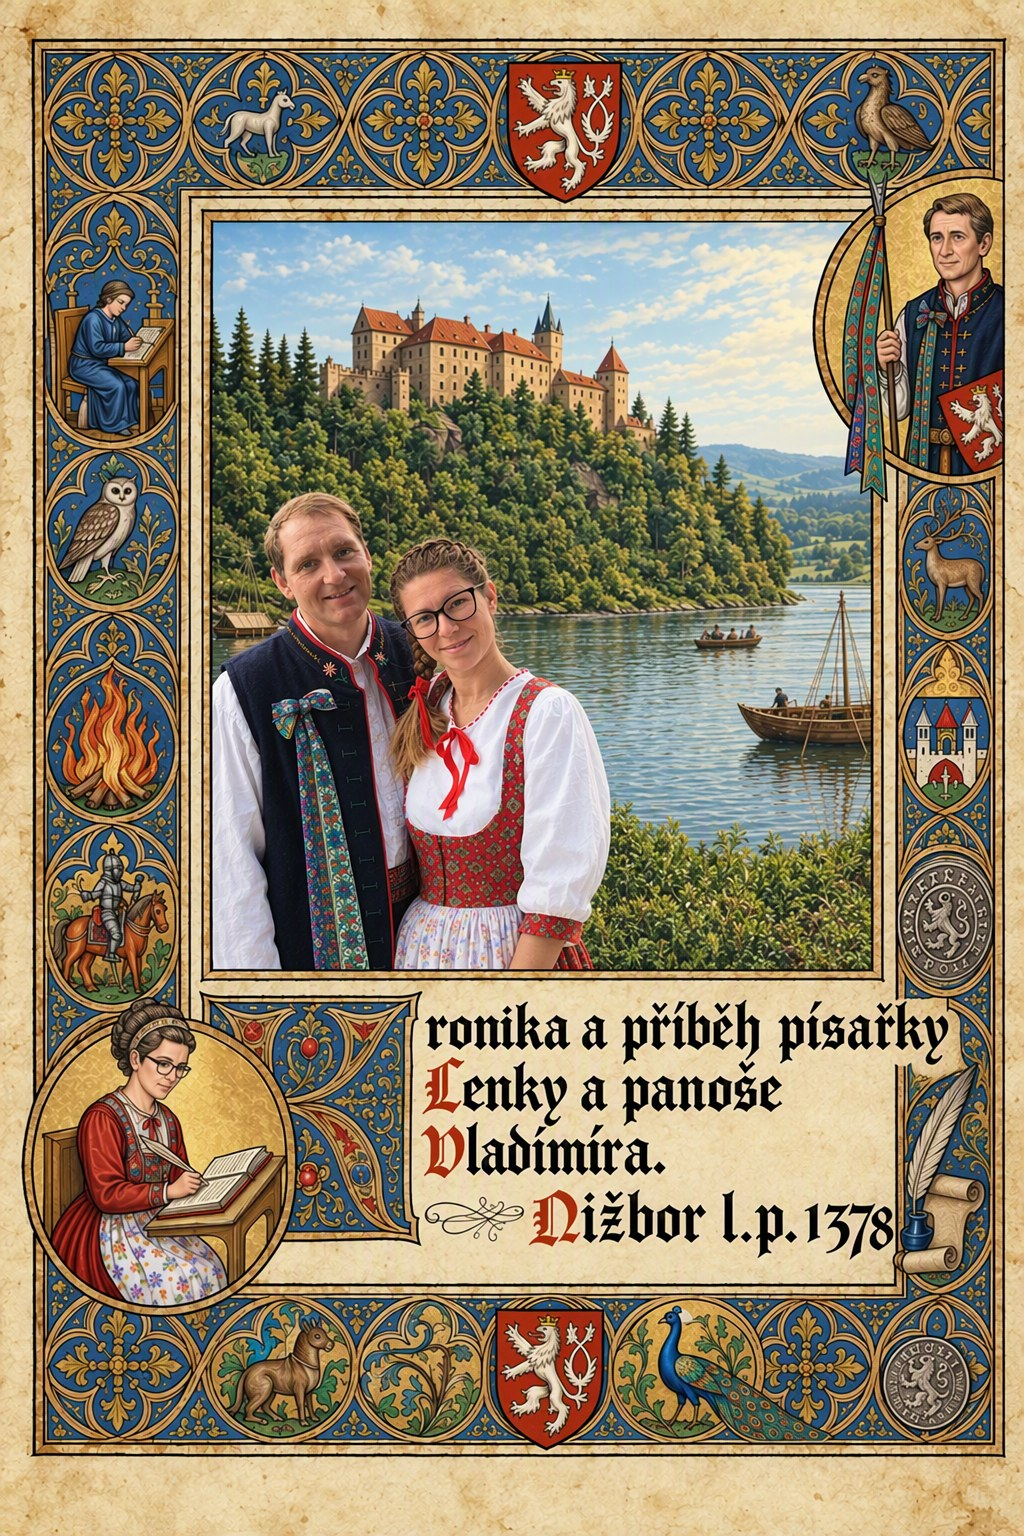
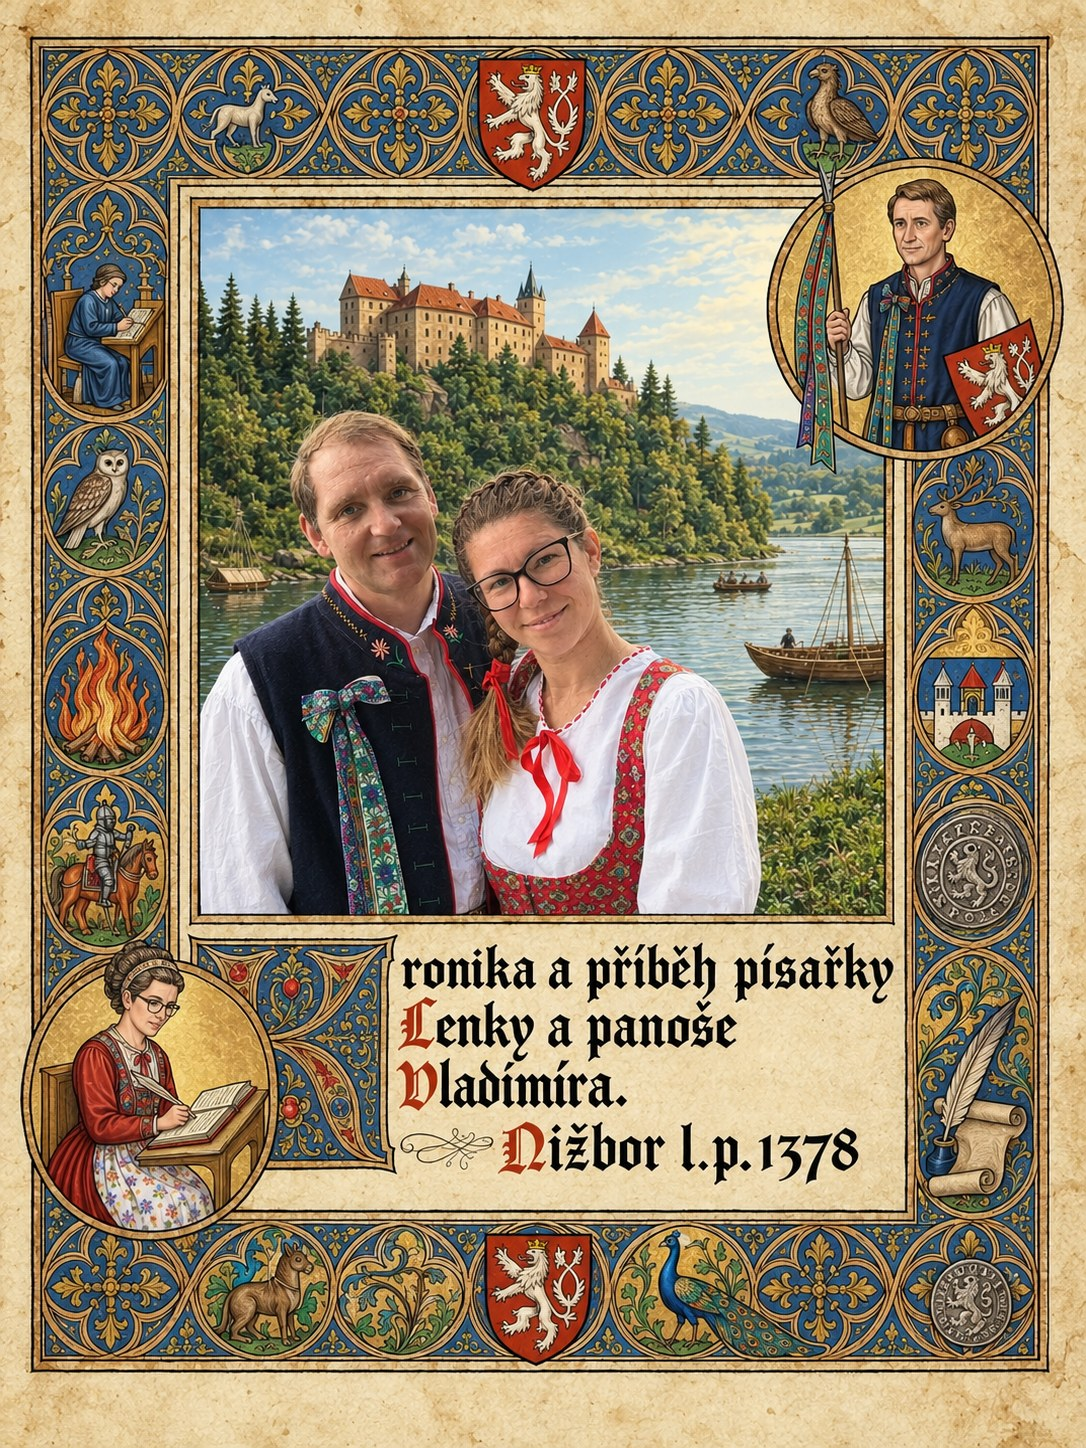
Nový přebal (přebal3), slovníček bez nářečí a anachronismů

diff --git a/kronika/slovnicek.html b/kronika/slovnicek.html
@@ -19,7 +19,7 @@
 <div class="stranka slovnik">
 <div class="horni"><a href="index.html#obsah">← Obsah</a><span>Kronika z Nižboru</span></div>
 <h1>Slovníček a Vysvětlivky</h1>
-<p style="text-align:center"><em>Staré výrazy, nářečí a záměrné anachronismy s překladem do současné češtiny.</em></p>
+<p style="text-align:center"><em>Staré výrazy, úřady, míry a místa s překladem do současné češtiny.</em></p>
 <h2>Úřady, lidé a řemesla</h2>
 <dl>
 <dt>panoš</dt><dd>mladý zbrojnoš a pomocník rytíře</dd>
@@ -84,34 +84,6 @@
 <dt>Miesenburg</dt><dd>Nižbor</dd>
 <dt>Vřídlo</dt><dd>Karlovy Vary (město tehdy ještě nebylo, jen pramen)</dd>
 <dt>Berounka</dt><dd>tehdy Mže</dd>
-</dl>
-<h2>Nářečí a hovorová řeč</h2>
-<dl>
-<dt>velkej, zdravej</dt><dd>velký, zdravý</dd>
-<dt>dyť, teda, zač</dt><dd>vždyť, tedy, za co</dd>
-<dt>kolama, městama</dt><dd>koly, městy</dd>
-<dt>búda, tadyk</dt><dd>bouda, tady</dd>
-<dt>ouředně</dt><dd>úředně</dd>
-<dt>májí</dt><dd>máje (májka)</dd>
-<dt>okutý, okutí</dt><dd>podkovaný, podkování</dd>
-<dt>tluk kladiva</dt><dd>bijící část kladiva</dd>
-<dt>slať, slatě</dt><dd>rašeliniště</dd>
-<dt>zafoukané</dt><dd>zavátý</dd>
-<dt>lejstro</dt><dd>papír, listina</dd>
-<dt>kámo, kámoška</dt><dd>kamarád, kamarádka</dd>
-</dl>
-<h2>Anachronismy (záměrné)</h2>
-<dl>
-<dt>KSN</dt><dd>šaškův pokřik na upálení; každý ho vykládá jinak</dd>
-<dt>Roming, Romanum imperium</dt><dd>roaming a Římská říše</dd>
-<dt>Jacques de Parkour, Maradona</dt><dd>hrdinové z jiných století a hřišť</dd>
-<dt>Capri Sonne</dt><dd>dětský nápoj z 20. století</dd>
-<dt>erteple</dt><dd>brambory (ty ještě nikdo neznal)</dd>
-<dt>hranolky, kraftění</dt><dd>novověké výrazy (kraftění = složitá výroba)</dd>
-<dt>festung</dt><dd>pevnost (německy)</dd>
-<dt>salamandří vlna</dt><dd>azbest</dd>
-<dt>Dornfelder, frankovka, Gran Moravia, svatovavřinecké</dt><dd>moderní odrůdy a víno</dd>
-<dt>káva</dt><dd>v 14. století se u nás nepila</dd>
 </dl>
 <nav class="navigace"><a href="index.html#obsah">← Obsah</a></nav>
 </div>
